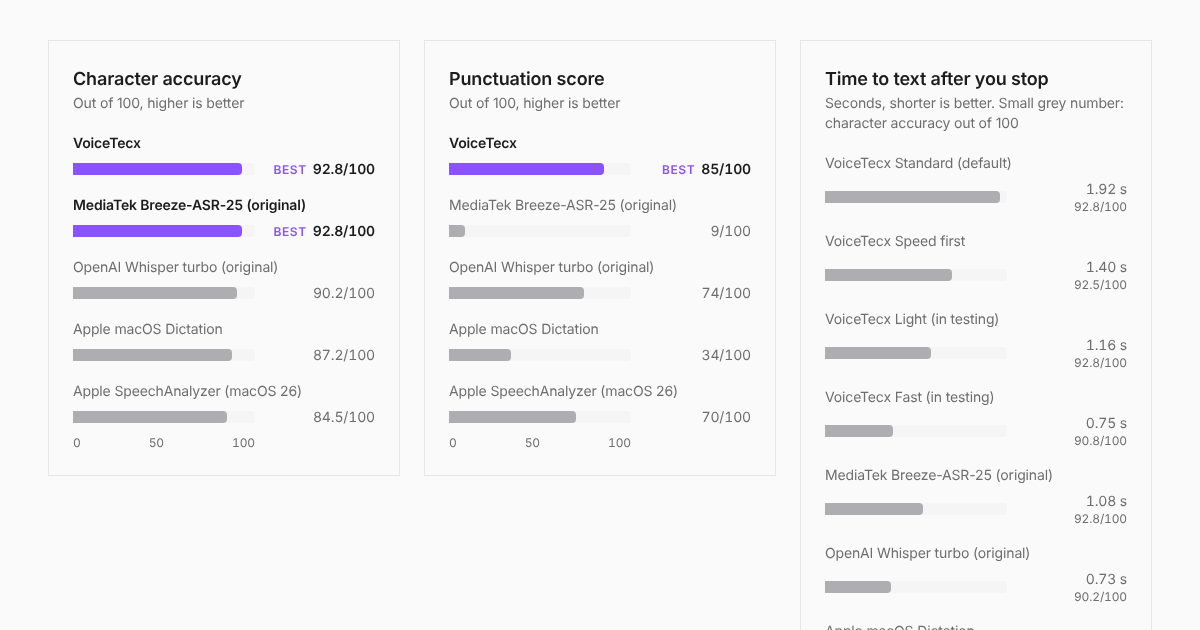
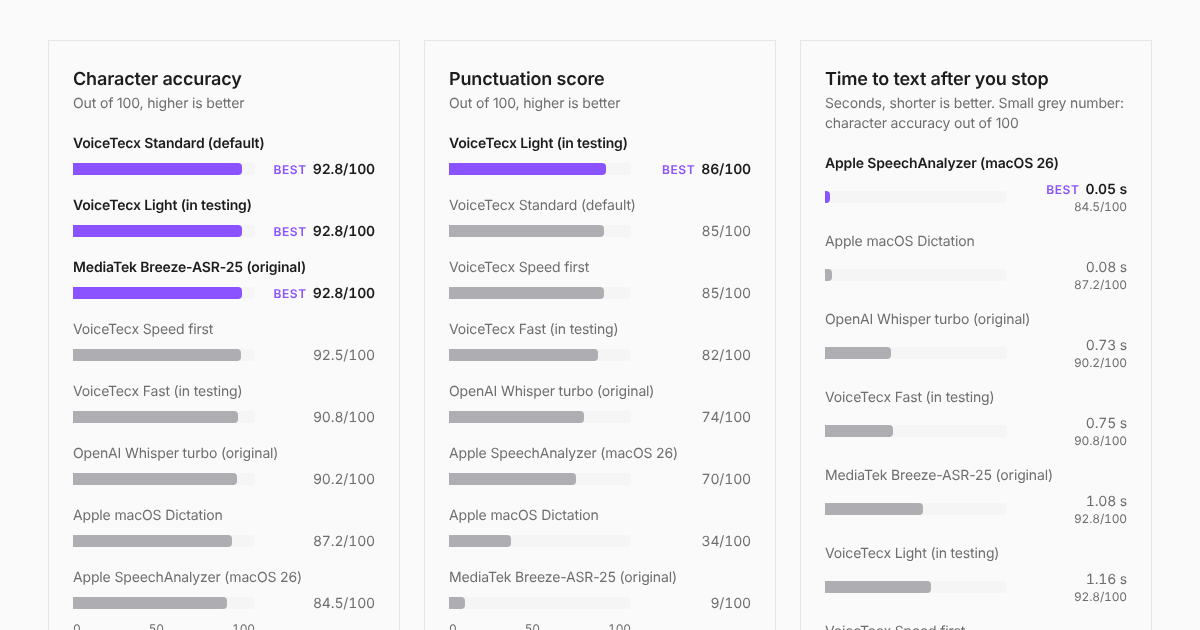
VoiceTecx comparison charts: best first, every VoiceTecx mode named, all VoiceTecx rows from one run
Niko via the lead: sort every chart best first (ties keep VoiceTecx first), name the mode
("VoiceTecx Standard (default)"), and add Speed first, Light and Fast to the accuracy and punctuation
charts. One table drives all three charts: VoiceTecx from eval/results-modes-niko.md ("without the
fitted fixes"; seconds on battery, Low Power Mode), MediaTek, OpenAI and Apple from the 2026-11-27
run on the same recordings. The note says which run each row comes from. Modes chart sorted too.

Claude-Session: https://claude.ai/code/session_01BNHmEDQLCwJupp3aEE97tE

diff --git a/components/voicetecx-content.tsx b/components/voicetecx-content.tsx
@@ -37,25 +37,27 @@ const AUDIENCE: { icon: LucideIcon; title: Key; body: Key }[] = [
 // acc: the row's character accuracy, shown beside a speed so fast never reads as same quality (the lead, 2026-11-28).
 type Row = { label: Key | "VoiceTecx"; sub?: Key; value?: number; display?: string; acc?: number }
 type Chart = { title: Key; scale: Key; max: number; unit?: string; lower?: boolean; rows: Row[] }
-const SYSTEMS = (rows: [number, number, number, number, number], d: (v: number) => string): Row[] =>
-  (["VoiceTecx", "vt_c_breeze", "vt_c_whisper", "vt_c_macos", "vt_c_apple_sa"] as const).map((label, i) => ({
-    label, value: rows[i], display: d(rows[i]),
-  }))
+// One table for all three comparison charts (Niko, 2026-11-28: every VoiceTecx mode, named; sorted best first).
+// VoiceTecx rows: tecxmate/voicetecx eval/results-modes-niko.md, one run on Niko's 25 recordings; accuracy and
+// punctuation from its "without the fitted fixes" table (the one to put next to Apple's), seconds on battery in Low
+// Power Mode (Apple's conditions). The original MediaTek and OpenAI rows and Apple's: the 2026-11-27 run on the same
+// recordings in the same conditions (eval/results-latency-apple.md, eval/results-apple-niko.md).
+const COMPARE: { label: Row["label"]; acc: number; punct: number; sec: number }[] = [
+  { label: "vt_m_std", acc: 92.8, punct: 85, sec: 1.92 },
+  { label: "vt_m_speed", acc: 92.5, punct: 85, sec: 1.40 },
+  { label: "vt_c_light_test", acc: 92.8, punct: 86, sec: 1.16 },
+  { label: "vt_c_fast_test", acc: 90.8, punct: 82, sec: 0.75 },
+  { label: "vt_c_breeze", acc: 92.8, punct: 9, sec: 1.08 },
+  { label: "vt_c_whisper", acc: 90.2, punct: 74, sec: 0.73 },
+  { label: "vt_c_macos", acc: 87.2, punct: 34, sec: 0.08 },
+  { label: "vt_c_apple_sa", acc: 84.5, punct: 70, sec: 0.05 },
+]
 const CHARTS: Chart[] = [
-  { title: "vt_c1_title", scale: "vt_c_scale", max: 100, rows: SYSTEMS([92.8, 92.8, 90.2, 87.2, 84.5], (v) => v.toFixed(1)) },
-  { title: "vt_c2_title", scale: "vt_c_scale", max: 100, rows: SYSTEMS([85, 9, 74, 34, 70], String) },
+  { title: "vt_c1_title", scale: "vt_c_scale", max: 100, rows: COMPARE.map((c) => ({ label: c.label, value: c.acc, display: c.acc.toFixed(1) })) },
+  { title: "vt_c2_title", scale: "vt_c_scale", max: 100, rows: COMPARE.map((c) => ({ label: c.label, value: c.punct, display: String(c.punct) })) },
   {
     title: "vt_c3_title", scale: "vt_c_scale_s_acc", max: 2, unit: " s", lower: true,
-    // tecxmate/voicetecx eval/results-modes-niko.md: every VoiceTecx mode in one run on battery, Low Power Mode (Apple's
-    // conditions); accuracy from its "without the fitted fixes" table, the one to put next to Apple's. The original
-    // MediaTek and OpenAI rows and Apple's are the 2026-11-27 run in the same conditions (eval/results-latency-apple.md).
-    rows: [
-      { label: "vt_m_std", value: 1.92, display: "1.92", acc: 92.8 },
-      { label: "vt_m_speed", value: 1.40, display: "1.40", acc: 92.5 },
-      { label: "vt_c_light_test", value: 1.16, display: "1.16", acc: 92.8 },
-      { label: "vt_c_fast_test", value: 0.75, display: "0.75", acc: 90.8 },
-      ...SYSTEMS([0, 1.08, 0.73, 0.08, 0.05], (v) => v.toFixed(2)).slice(1).map((row, i) => ({ ...row, acc: [92.8, 90.2, 87.2, 84.5][i] })),
-    ],
+    rows: COMPARE.map((c) => ({ label: c.label, value: c.sec, display: c.sec.toFixed(2), acc: c.acc })),
   },
 ]
 const MODE_ROWS = (vals: (number | undefined)[], d: (v: number) => string = (v) => v.toFixed(1)): Row[] =>
@@ -121,6 +123,9 @@ function BarChart({ title, scale, max, unit = "/100", lower, rows, children }: C
   const { t } = useLanguage()
   const name = (l: Row["label"]) => (l === "VoiceTecx" ? "VoiceTecx" : t(l))
   const values = rows.flatMap((r) => (r.value === undefined ? [] : [r.value]))
+  // Best first (Niko, 2026-11-28); Array.sort is stable, so ties keep the listed order, VoiceTecx first.
+  const sorted = [...rows].sort((a, b) =>
+    a.value === undefined ? (b.value === undefined ? 0 : 1) : b.value === undefined ? -1 : lower ? a.value - b.value : b.value - a.value)
   const best = lower ? Math.min(...values) : Math.max(...values)
   const pending = rows.length - values.length
   return (
@@ -130,7 +135,7 @@ function BarChart({ title, scale, max, unit = "/100", lower, rows, children }: C
         <span className="block text-sm text-muted-foreground">{t(scale)}</span>
       </figcaption>
       <div className="space-y-4" role="list">
-        {rows.map((r) => {
+        {sorted.map((r) => {
           const win = r.value === best
           return (
           // Phones get a minimal chart (Niko): rows still being measured, model lines and the axis show from md up.
